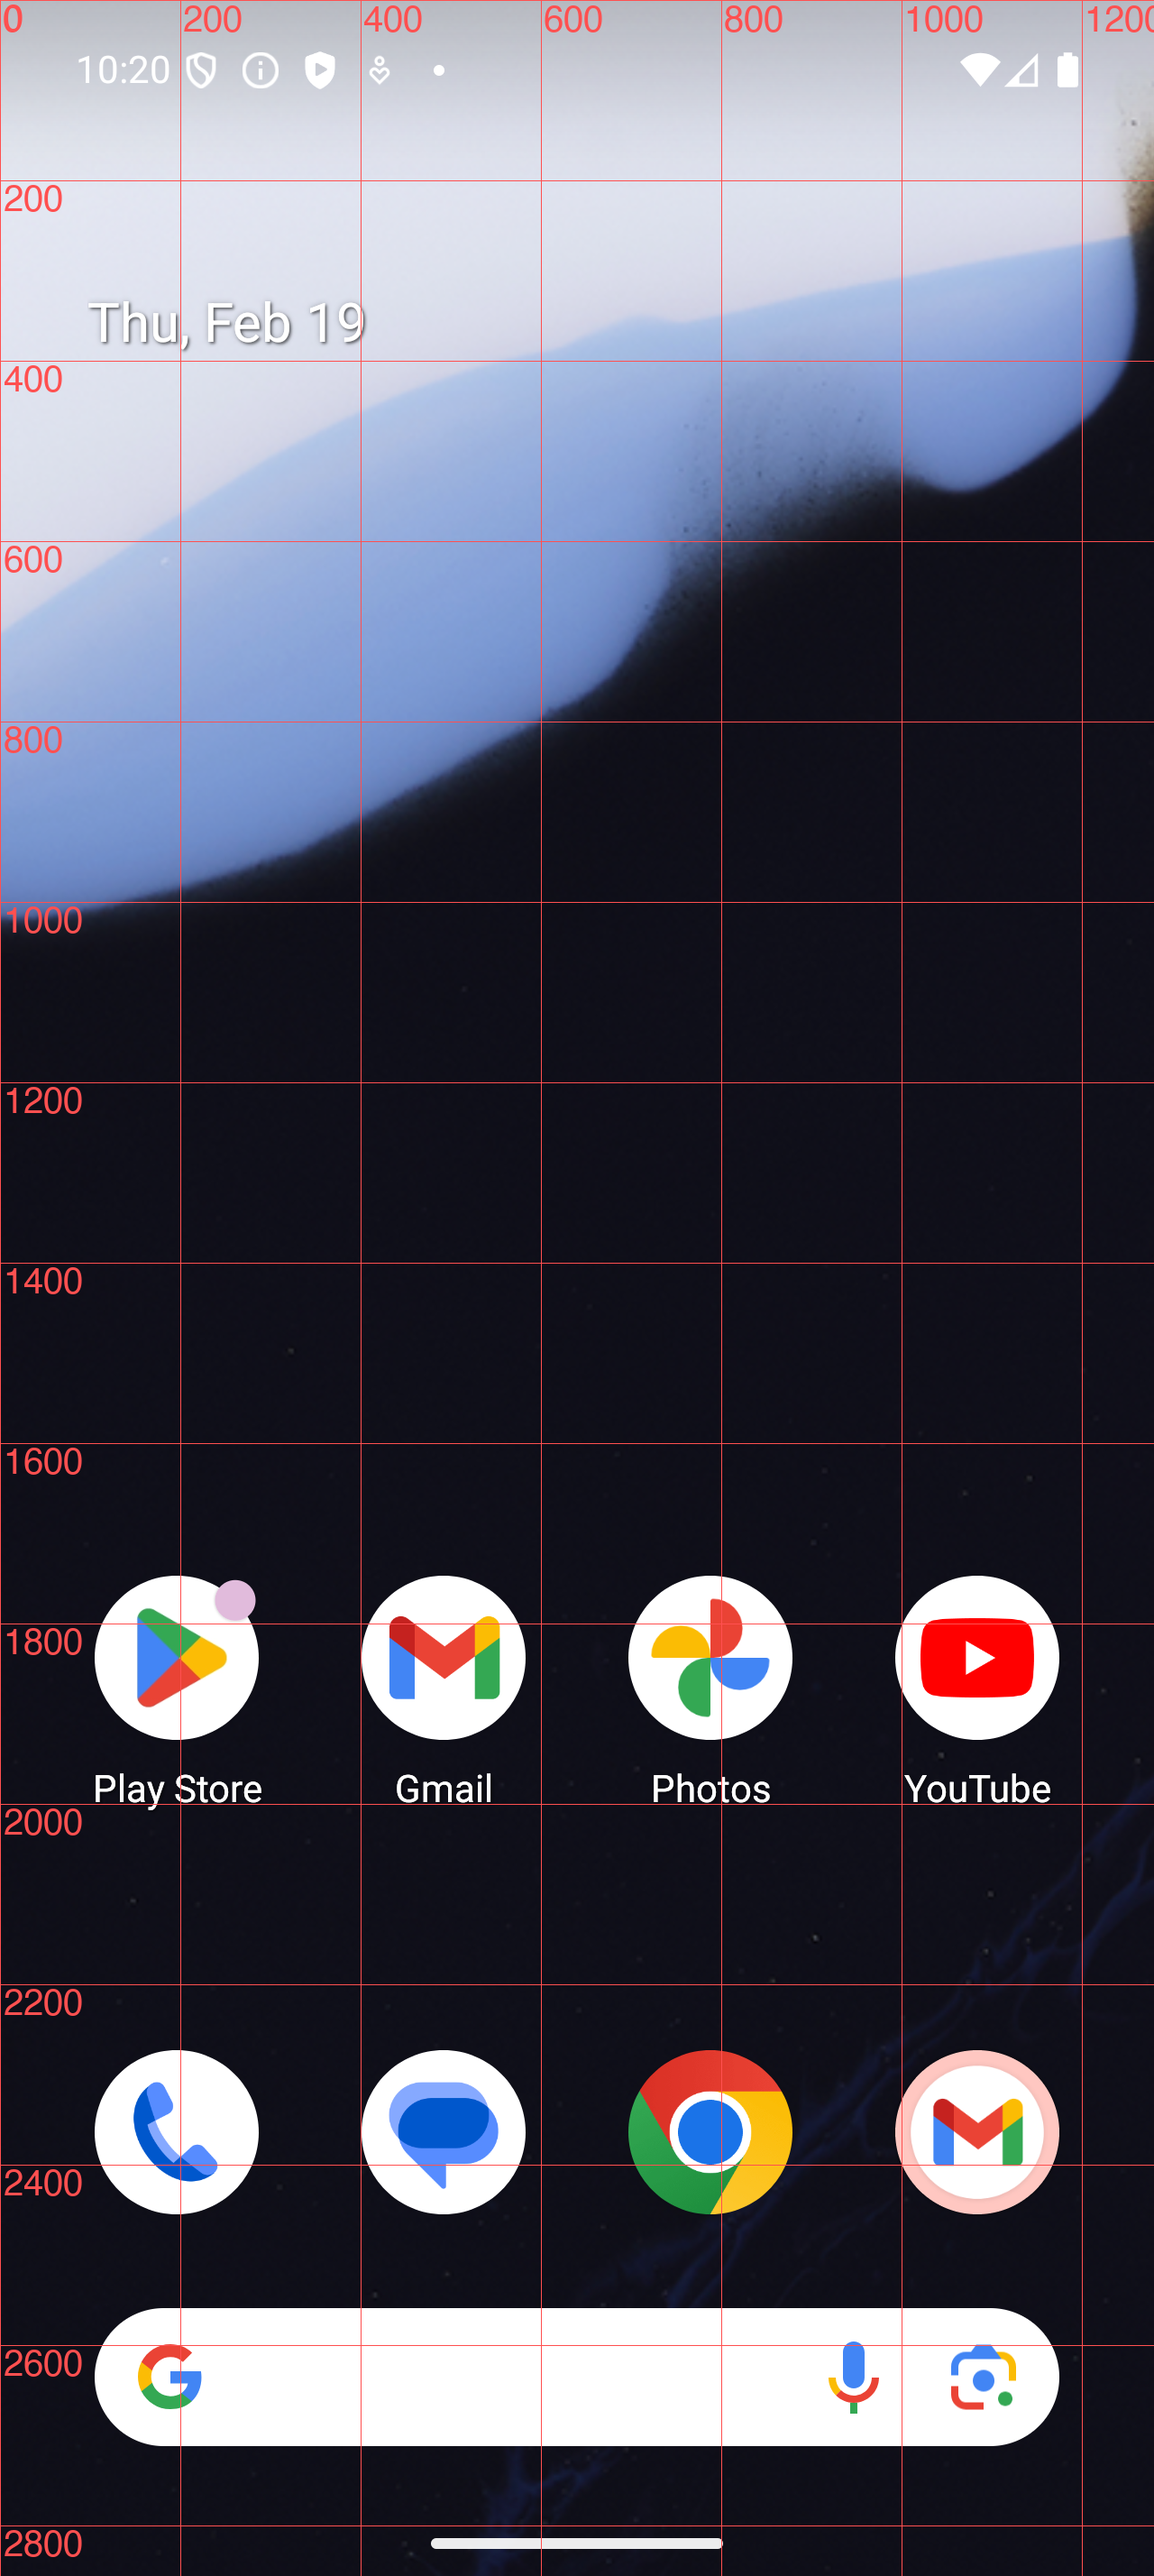
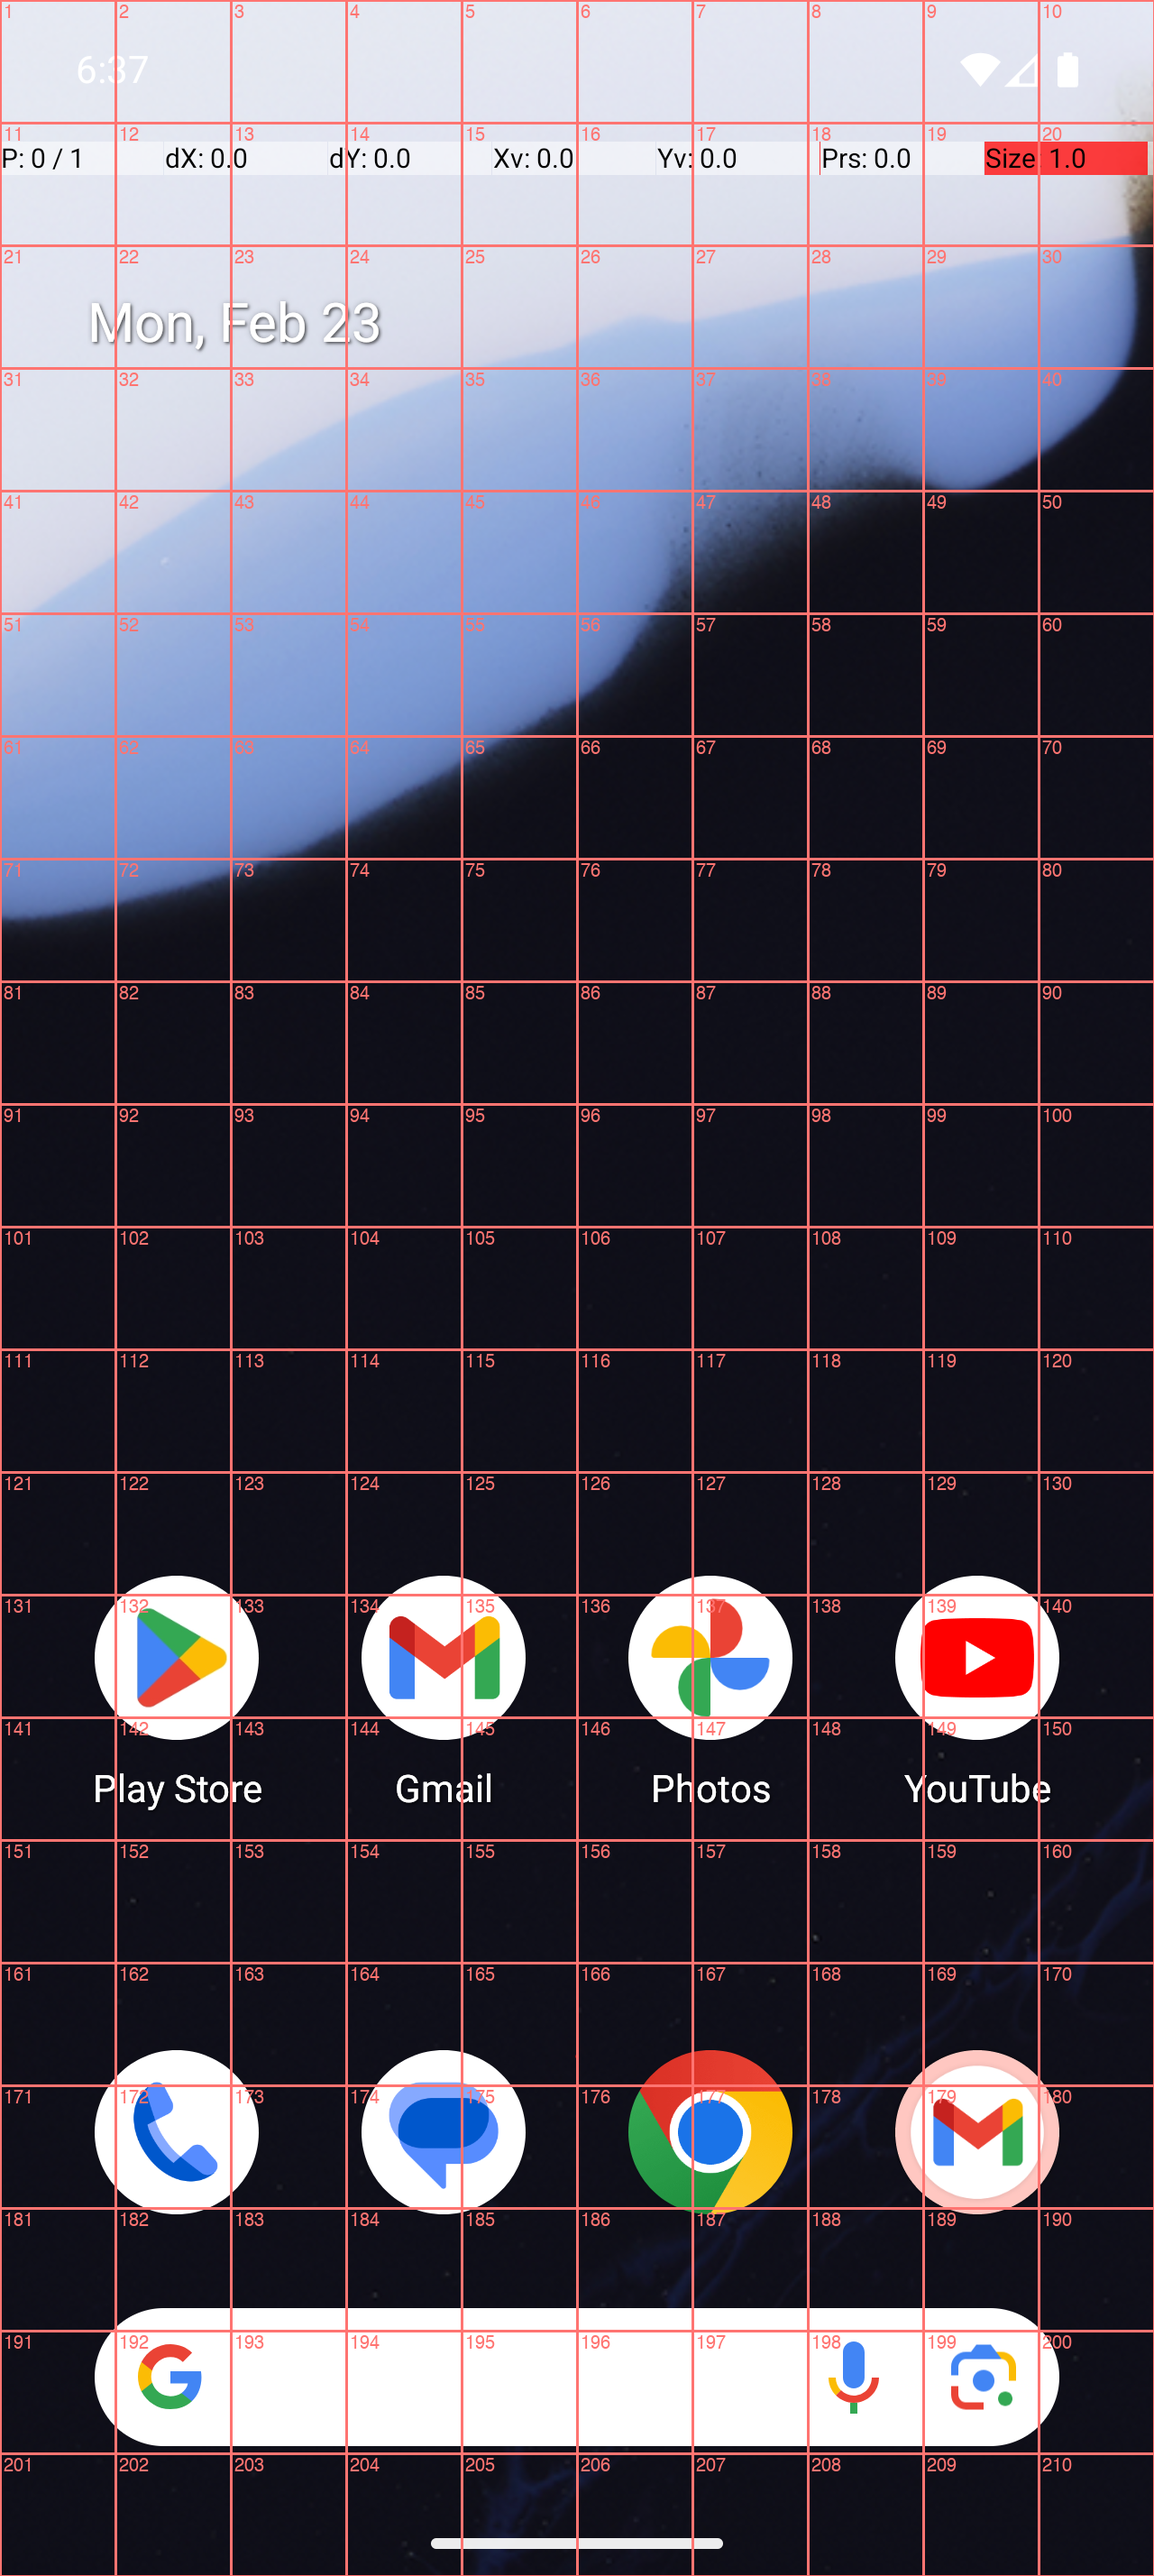
bounding box coordinate selection

diff --git a/agent/agent.py b/agent/agent.py
@@ -21,8 +21,8 @@ class Agent:
         self.controller = AndroidController(serial=config["DEVICE_SERIAL"])
         self.output_dir = config["OUTPUT_DIR"]
         self.max_steps = config.get("MAX_STEPS", 20)
-        w, h = self.controller.screen_size()
-        self.system_prompt = build_system_prompt(w, h)
+        self.screen_w, self.screen_h = self.controller.screen_size()
+        self.system_prompt = build_system_prompt(self.screen_w, self.screen_h)
 
         # load ICL examples
         examples_dir = config.get("EXAMPLES_DIR", "./examples")
@@ -51,13 +51,37 @@ class Agent:
             f"What is the next action?"
         )
 
-    def execute_action(self, action: dict) -> None:
-        print("in dispatch traking an action")
+    def area_to_xy(self, area: int, subarea: str, rows: int, cols: int) -> tuple[int, int]:
+        """Convert a numbered grid cell + subarea string to pixel (x, y)."""
+        area -= 1
+        row, col = area // cols, area % cols
+        cell_w = self.screen_w // cols
+        cell_h = self.screen_h // rows
+        x0, y0 = col * cell_w, row * cell_h
+        offsets = {
+            "top-left":     (cell_w // 4,     cell_h // 4),
+            "top":          (cell_w // 2,     cell_h // 4),
+            "top-right":    (cell_w * 3 // 4, cell_h // 4),
+            "left":         (cell_w // 4,     cell_h // 2),
+            "center":       (cell_w // 2,     cell_h // 2),
+            "right":        (cell_w * 3 // 4, cell_h // 2),
+            "bottom-left":  (cell_w // 4,     cell_h * 3 // 4),
+            "bottom":       (cell_w // 2,     cell_h * 3 // 4),
+            "bottom-right": (cell_w * 3 // 4, cell_h * 3 // 4),
+        }
+        dx, dy = offsets.get(subarea, (cell_w // 2, cell_h // 2))
+        return x0 + dx, y0 + dy
+
+    def execute_action(self, action: dict, rows: int = 1, cols: int = 1) -> None:
         name = action["action"]
         args = action.get("args", {})
 
         if name == "tap":
-            self.controller.tap(args["x"], args["y"])
+            if "area" in args:
+                x, y = self.area_to_xy(args["area"], args.get("subarea", "center"), rows, cols)
+            else:
+                x, y = args["x"], args["y"]
+            self.controller.tap(x, y)
         elif name == "swipe":
             self.controller.swipe(
                 args["x1"], args["y1"], args["x2"], args["y2"],
@@ -86,12 +110,14 @@ class Agent:
 
         history: list[dict] = []
 
+        rows, cols = 1, 1  # updated each step after screenshot
+
         for step in range(self.max_steps):
             # screenshot
             screenshot_path = os.path.join(screenshot_dir, f"step_{step:03d}.png")
             grid_path = os.path.join(screenshot_dir, f"step_{step:03d}_grid.png")
-            self.controller.screenshot_with_grid(screenshot_path, grid_path)
-            print(f"[step {step + 1}] Screenshot saved: {screenshot_path}")
+            grid_path, rows, cols = self.controller.screenshot_with_numbered_grid(screenshot_path, grid_path)
+            print(f"[step {step + 1}] Grid: {rows}r x {cols}c — saved to {grid_path}")
 
             # build prompt
             prompt = self.build_prompt(task, step, history)
@@ -137,7 +163,7 @@ class Agent:
 
             # execute
             try:
-                self.execute_action(action)
+                self.execute_action(action, rows=rows, cols=cols)
             except Exception as e:
                 print(f"[step {step + 1}] ERROR executing action: {e}")
                 break

diff --git a/agent/prompt.py b/agent/prompt.py
@@ -6,7 +6,7 @@ def build_system_prompt(screen_width: int, screen_height: int) -> str:
 You are an agent controlling an Android phone via a screen-reading loop.
 
 At each step you receive:
-  1. A screenshot of the current screen (with a coordinate grid overlay for reference)
+  1. A screenshot of the current screen overlaid with a numbered cell grid
   2. The overall task you are trying to complete
   3. A brief history of the actions you have already taken
 
@@ -14,27 +14,30 @@ Your job is to decide the SINGLE best next action to make progress on the task.
 
 First, reason step-by-step:
   - Describe what you see on the current screen
-  - Use the red grid lines and their labels to estimate element positions
-  - Identify which UI element is relevant and estimate its center pixel
-  - Choose the best action
+  - The screen is divided into a grid of numbered rectangular cells, labeled 1, 2, 3...
+    left-to-right, top-to-bottom
+  - Identify the cell number that contains the UI element you want to interact with
+  - Choose which part of that cell the element is in (subarea)
 
 Then, on the VERY LAST LINE of your response, output a single valid JSON object
 (no markdown fences, no trailing text) using one of these action types:
 
-  {{"action": "tap",   "args": {{"x": <int>, "y": <int>}}}}
+  {{"action": "tap",   "args": {{"area": <int>, "subarea": "<string>"}}}}
   {{"action": "swipe", "args": {{"x1": <int>, "y1": <int>, "x2": <int>, "y2": <int>, "duration_ms": <int>}}}}
   {{"action": "type",  "args": {{"text": "<string>"}}}}
   {{"action": "back",  "args": {{}}}}
   {{"action": "home",  "args": {{}}}}
   {{"action": "done",  "args": {{}}}}
 
+For "tap", "area" is the cell number and "subarea" is one of:
+  "top-left", "top", "top-right", "left", "center", "right", "bottom-left", "bottom", "bottom-right"
+Use "center" if the element is in the middle of the cell.
+
 Use "done" when the task has been successfully completed.
 
-You may also receive in-context examples of previous runs to give you better grounding on where certain apps on the homescreen may be. If you are provided with these examples, please use them to help orient yourself with the coordinates.
+You may also receive in-context examples of previous runs to give you better grounding on where certain apps on the homescreen may be. If you are provided with these examples, please use them to help orient yourself.
 
-IMPORTANT: The screenshot's coordinate space is exactly {screen_width}x{screen_height} pixels.
-Coordinates use screen pixels with origin at top-left (x=0, y=0).
-x ranges from 0 to {screen_width - 1}, y ranges from 0 to {screen_height - 1}.
+IMPORTANT: The screen resolution is {screen_width}x{screen_height} pixels. Swipe coordinates use this pixel space.
 """
 
 

diff --git a/agent/android_controller.py b/agent/android_controller.py
@@ -60,42 +60,41 @@ class AndroidController:
                 return int(w), int(h)
         raise RuntimeError(f"Could not parse screen size from: {output!r}")
     
-    def screenshot_with_grid(
+    def screenshot_with_numbered_grid(
         self,
         save_path: str,
         grid_path: str,
-        step: int = 200,
-    ) -> str:
+    ) -> tuple[str, int, int]:
         """
-        Take a screenshot, then save a copy annotated with a coordinate grid
-        to *grid_path*. The grid lines and labels are spaced every *step* pixels,
-        giving the vision model clear spatial anchors.
+        Capture a screenshot and annotate it with a numbered cell grid.
 
-        Returns grid_path.
+        Screen is fixed at 1280x2856. Cells are 160x168px → 8 cols x 17 rows = 136 cells,
+        labeled 1…136 left-to-right, top-to-bottom.
+
+        Returns (grid_path, rows, cols).
         """
+        CELL_W, CELL_H = 160, 168
+        cols = 1280 // CELL_W   # 8
+        rows = 2856 // CELL_H   # 17
+
         png_bytes: bytes = self.device.screencap()
         img = Image.open(io.BytesIO(png_bytes)).convert("RGB")
+
         draw = ImageDraw.Draw(img)
-        w, h = img.size
+        color = (255, 116, 113)
+        font = ImageFont.truetype("/System/Library/Fonts/Helvetica.ttc", size=25)
 
-        font = ImageFont.truetype("/System/Library/Fonts/Helvetica.ttc", size=40)
-
-        line_color = (255, 80, 80)    # red-ish grid lines
-        label_color = (255, 80, 80)   # yellow labels (visible on most backgrounds)
-
-        # Vertical lines + x labels
-        for x in range(0, w, step):
-            draw.line([(x, 0), (x, h)], fill=line_color, width=1)
-            draw.text((x + 3, 4), str(x), fill=label_color, font=font)
-
-        # Horizontal lines + y labels
-        for y in range(0, h, step):
-            draw.line([(0, y), (w, y)], fill=line_color, width=1)
-            draw.text((4, y + 3), str(y), fill=label_color, font=font)
+        for r in range(rows):
+            for c in range(cols):
+                label = r * cols + c + 1
+                x0, y0 = c * CELL_W, r * CELL_H
+                x1, y1 = x0 + CELL_W, y0 + CELL_H
+                draw.rectangle([x0, y0, x1, y1], outline=color, width=3)
+                draw.text((x0 + 4, y0 + 4), str(label), fill=color, font=font)
 
         os.makedirs(os.path.dirname(grid_path) or ".", exist_ok=True)
         img.save(grid_path)
-        return grid_path
+        return grid_path, rows, cols
 
 
 

diff --git a/reset.py b/reset.py
@@ -5,4 +5,5 @@ SERIAL = "emulator-5554"
 
 ctrl = AndroidController(serial=SERIAL)
 ctrl.home()
+print("=====Home button pressed, restring for 5 seconds.=====")
 time.sleep(5)
